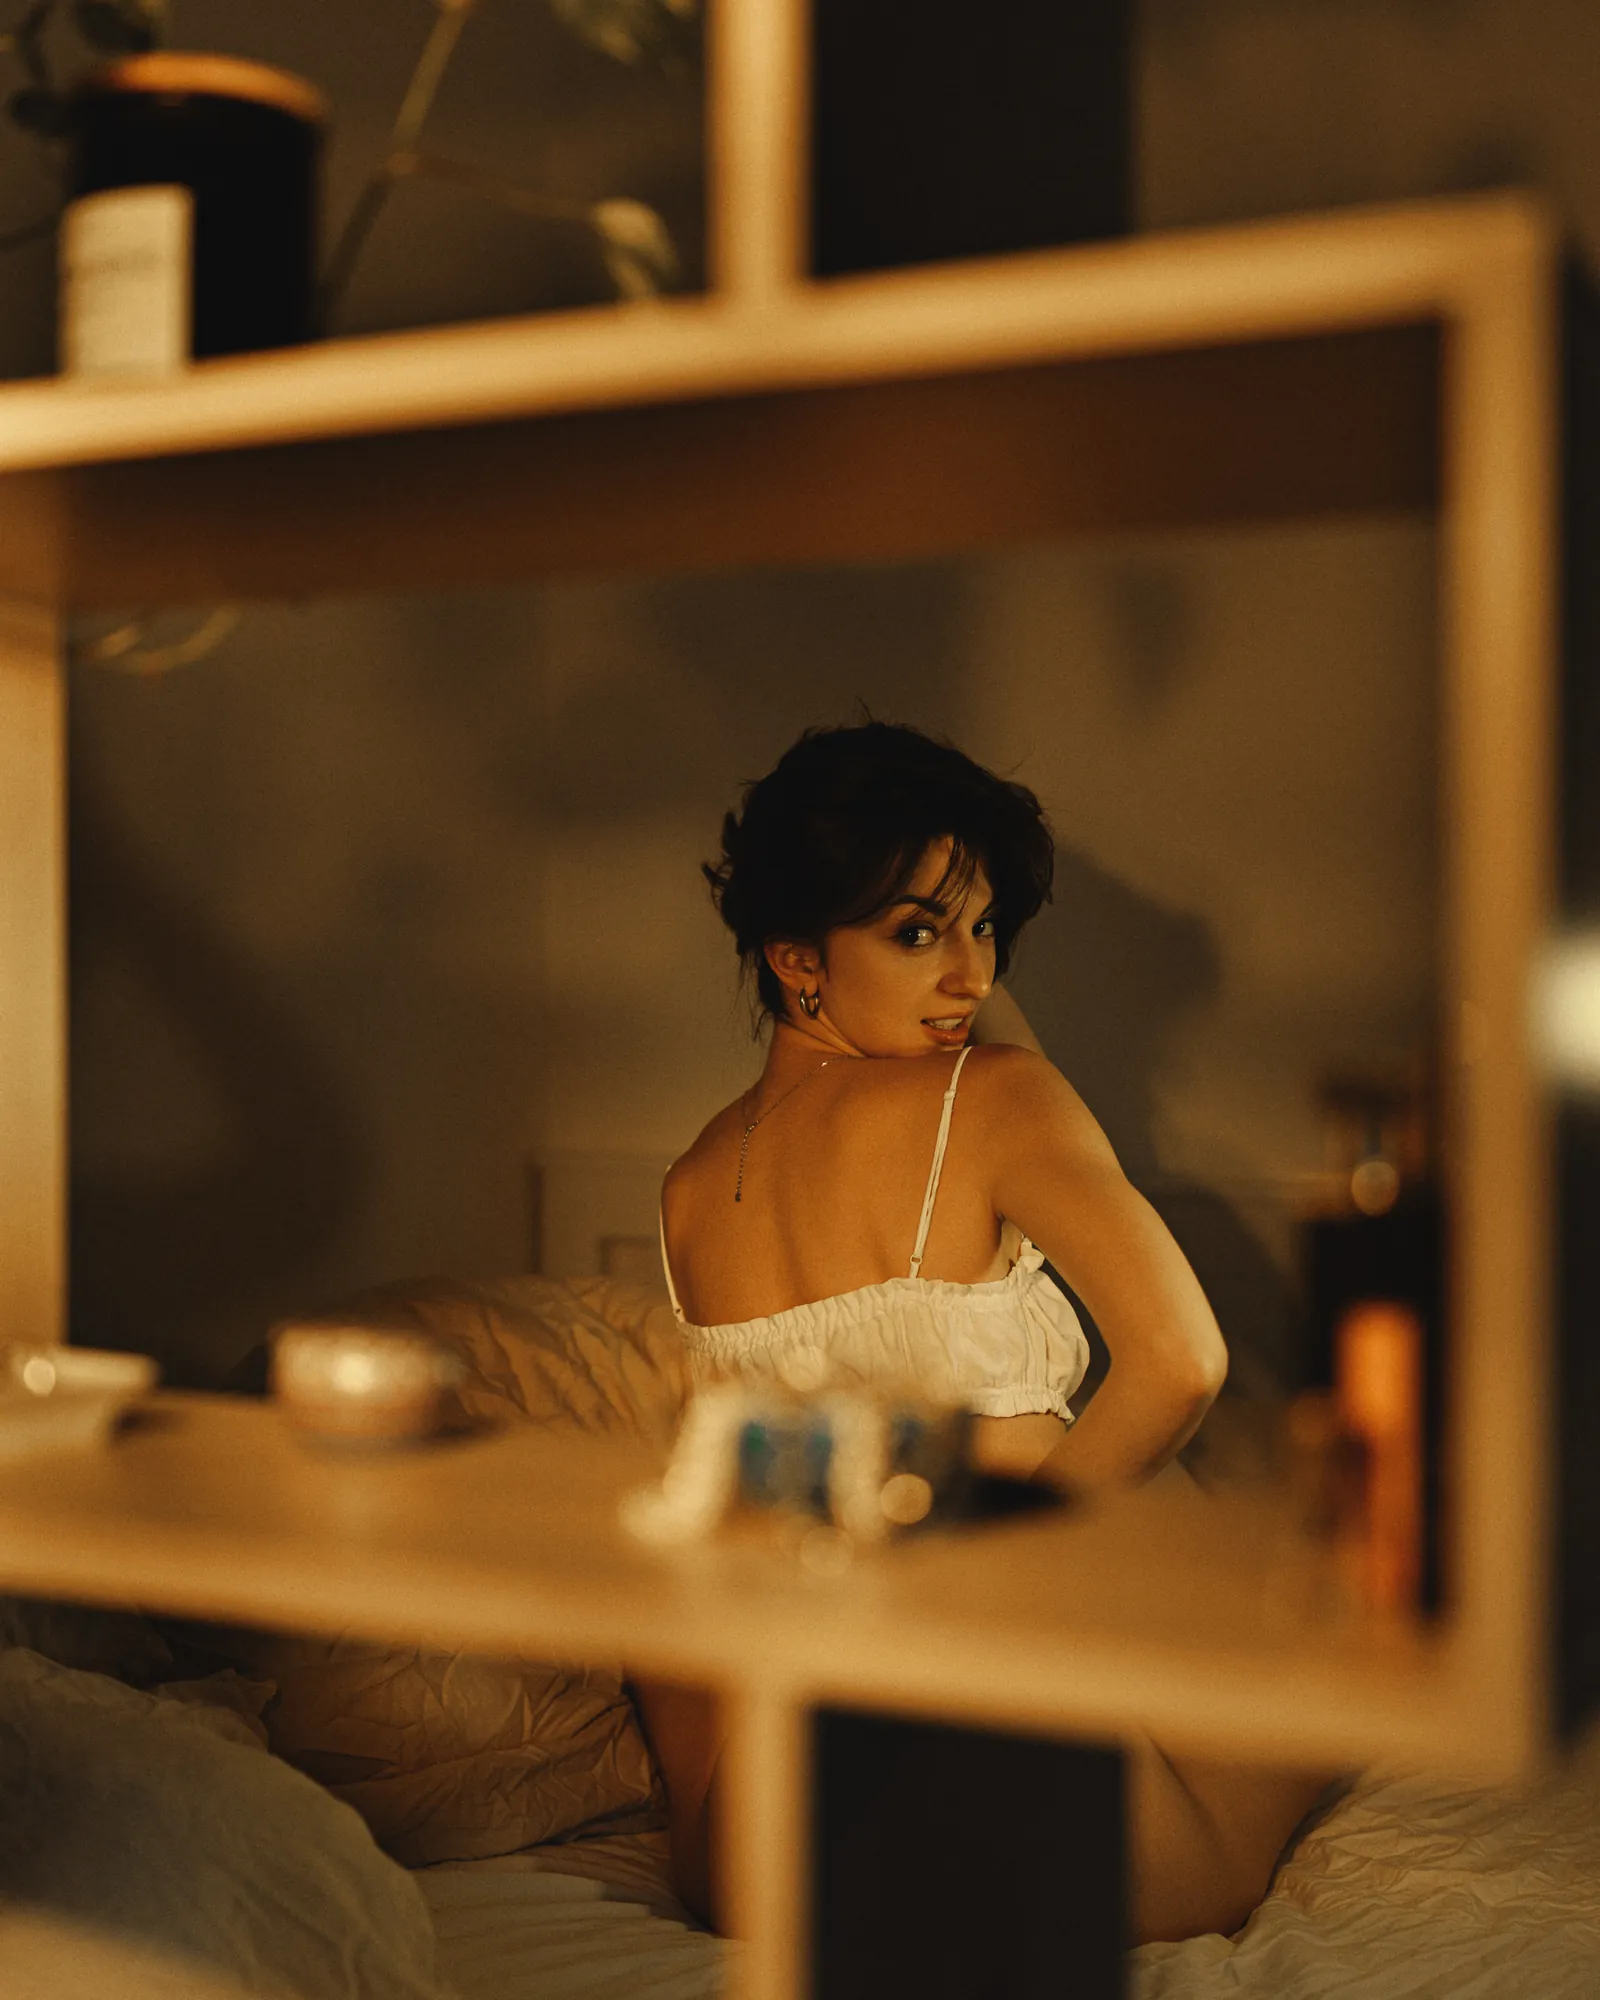
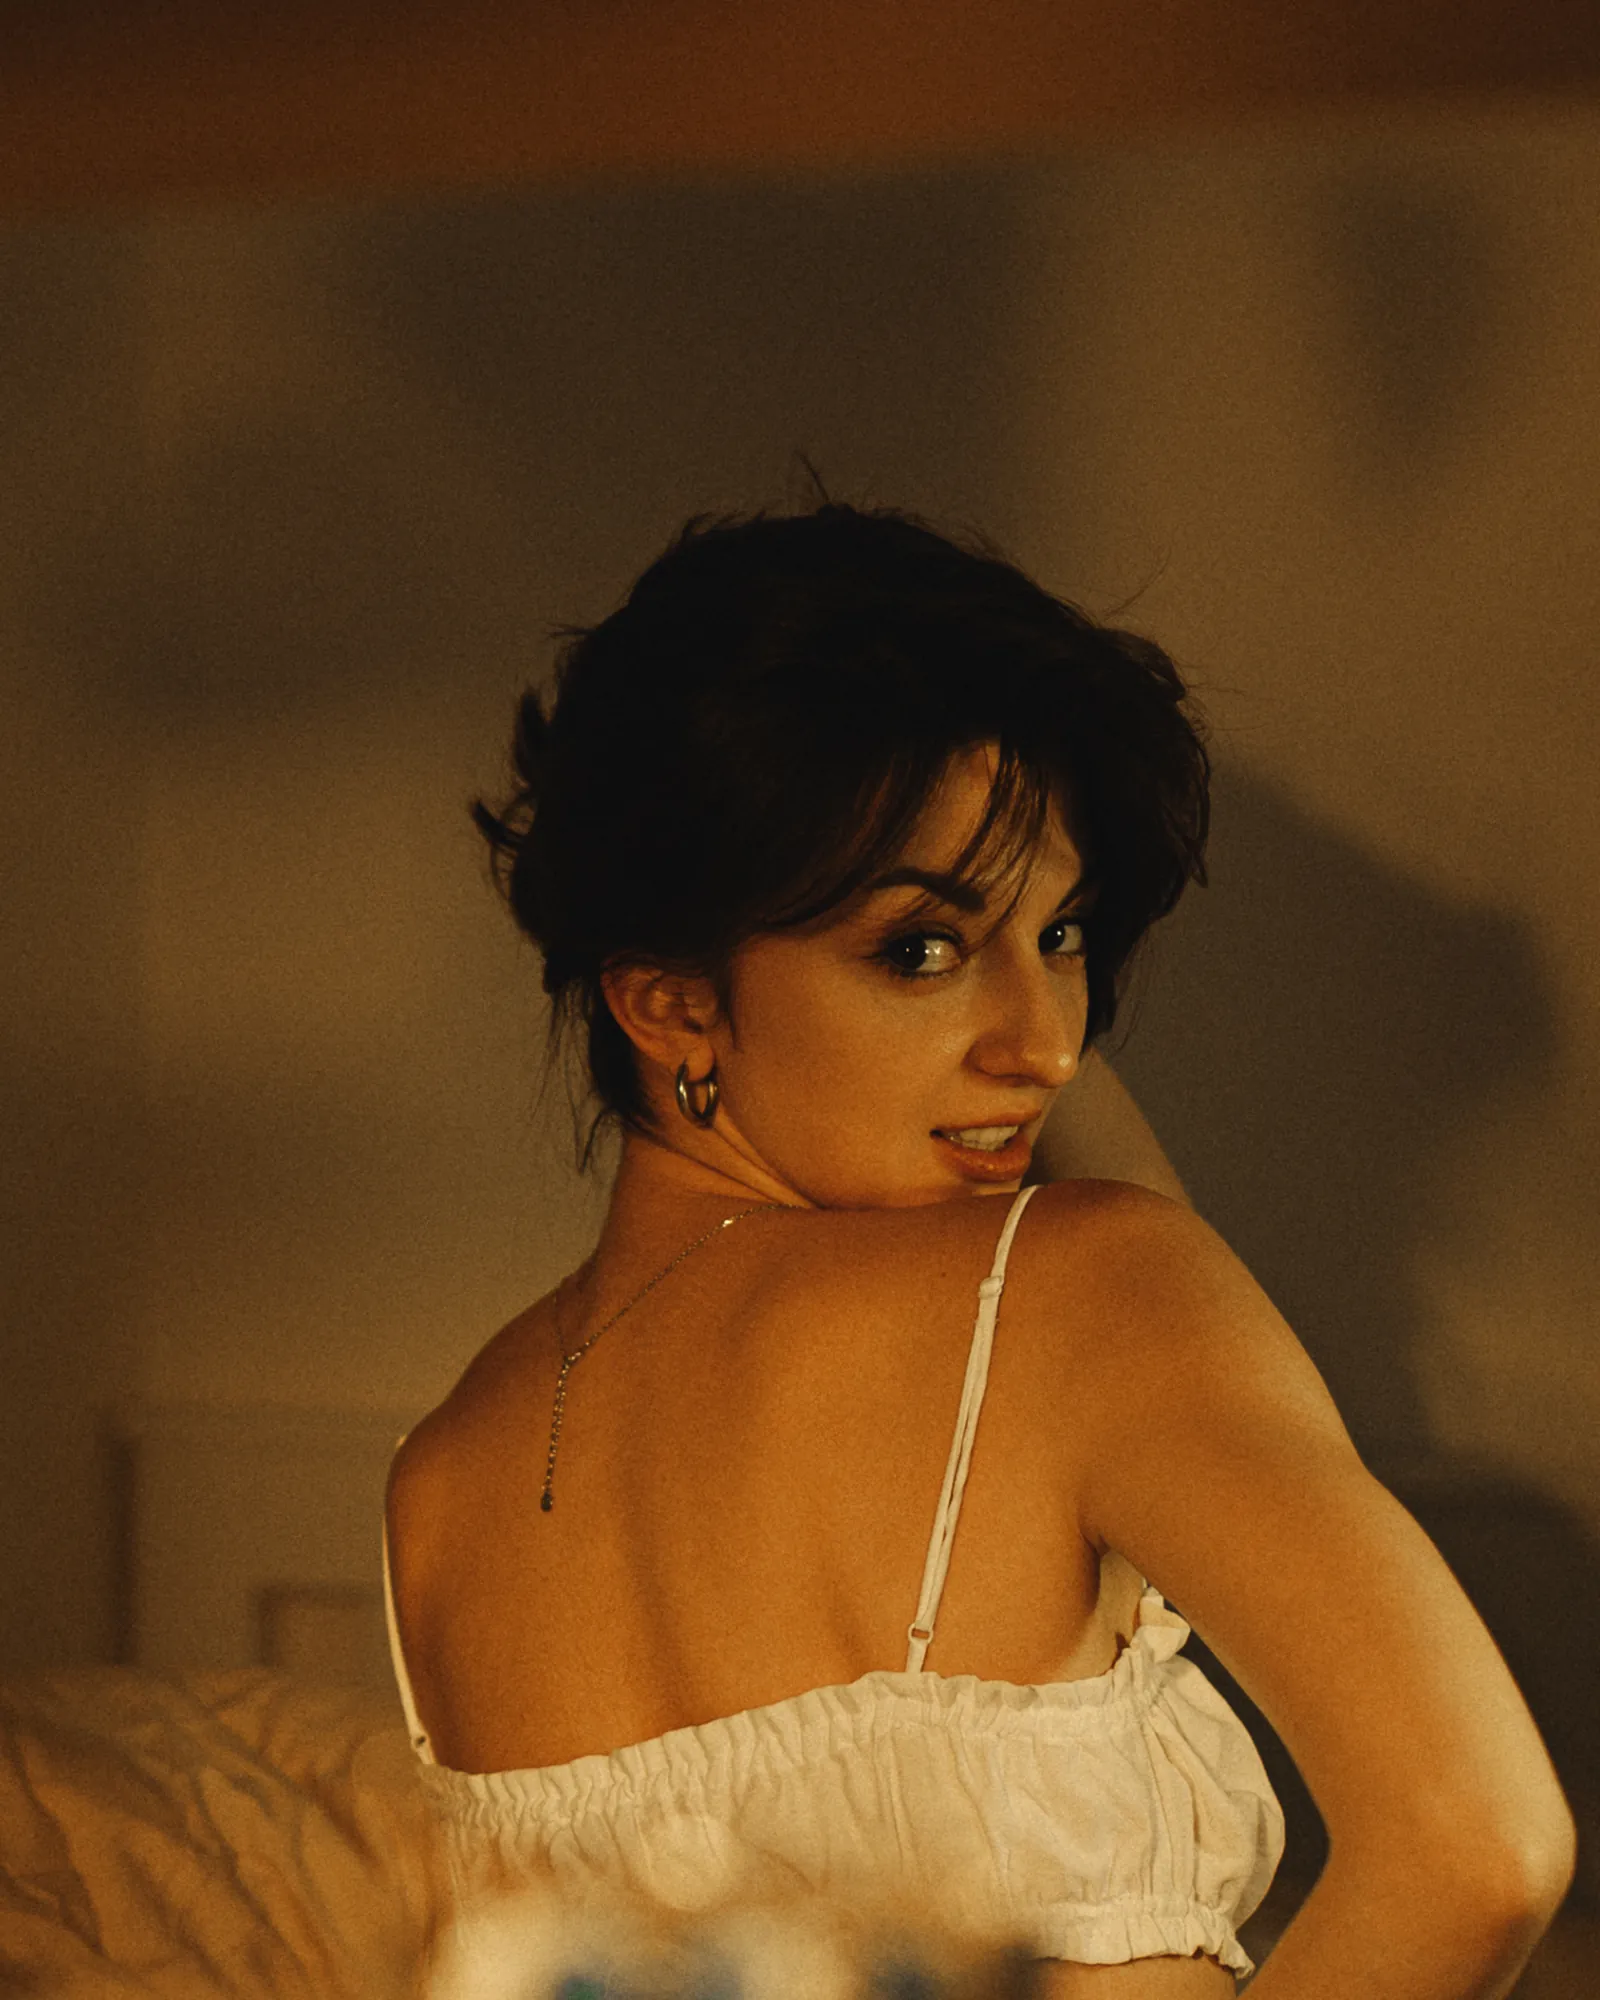
Лендинг v3: крупный портрет в герое
Кадр в герое переснят под вариант C: область x 0.299–0.775, y 0.241–0.717
исходника 3600×4500 — лицо и плечо вместо общего плана, где Лана занимала
треть высоты, а остальное было размытыми полками.

Кроп выпечен в assets/lana.{webp,jpg} (1600×2000), а не задан стилями:
через CSS-зум тот же кадр дал бы 1,65 пикселя исходника на пиксель экрана
против 3,46 у пережатого. Файлы потяжелели (webp 108→150 КБ, jpg 314→351),
потому что кадр стал плотнее деталями.

Переменные --film-pos и --film-zoom добавлены в .aperture и оставлены
нейтральными — ручка для быстрой правки без пережатия.

diff --git a/web/index.html b/web/index.html
@@ -131,12 +131,22 @@ p:last-child { margin-bottom: 0; }
   border: 1px solid rgba(184,131,78,0.28);
   background: radial-gradient(120% 80% at 62% 34%, rgba(232,184,124,0.30), transparent 60%), linear-gradient(160deg, #2A1E14, #120D09 70%);
 }
-.aperture img { position: absolute; inset: 0; width: 100%; height: 100%; object-fit: cover; object-position: var(--film-pos, 50% 45%); filter: brightness(1.05) contrast(1.02); }
+/* Кроп выпечен в сам файл, поэтому здесь обе переменные нейтральные. Они
+   оставлены как ручка для быстрой правки без пережатия: --film-pos — точка,
+   которая остаётся на месте, --film-zoom — насколько близко подходим.
+   transform-origin обязан совпадать с object-position, иначе при зуме
+   фокус уезжает. Зум дороже пережатия: он тянет пиксели, а не добавляет их. */
+.aperture img {
+  position: absolute; inset: 0; width: 100%; height: 100%;
+  object-fit: cover; object-position: var(--film-pos, 50% 45%);
+  transform: scale(var(--film-zoom, 1)); transform-origin: var(--film-pos, 50% 45%);
+  filter: brightness(1.05) contrast(1.02);
+}
 .aperture::after {
   content: ""; position: absolute; inset: 0; pointer-events: none;
   box-shadow: inset 0 -80px 90px -40px rgba(16,12,9,0.75), inset 0 0 60px rgba(16,12,9,0.35);
 }
-.hero__aperture { aspect-ratio: 4 / 5; max-height: 74vh; }
+.hero__aperture { aspect-ratio: 4 / 5; max-height: 74vh; --film-pos: 50% 50%; --film-zoom: 1; }
 
 .areas { display: grid; grid-template-columns: repeat(3, minmax(0, 1fr)); gap: clamp(1.5rem, 3vw, 3rem); margin-top: clamp(2.5rem, 5vh, 3.5rem); }
 .areas h3 { margin-bottom: 1.2rem; }
@@ -229,7 +239,8 @@ p:last-child { margin-bottom: 0; }
 @media (max-width: 900px) {
   .hero__grid, .two-col { grid-template-columns: minmax(0, 1fr); }
   .hero__grid { gap: clamp(1.75rem, 5vw, 2.5rem); }
-  .hero__aperture { max-height: 56vh; --film-pos: 50% 40%; }
+  /* Кроп тот же, что на десктопе, — меняется только потолок высоты. */
+  .hero__aperture { max-height: 56vh; }
   .areas { grid-template-columns: minmax(0, 1fr); }
   .steps { margin-top: 2.25rem; }
 }
